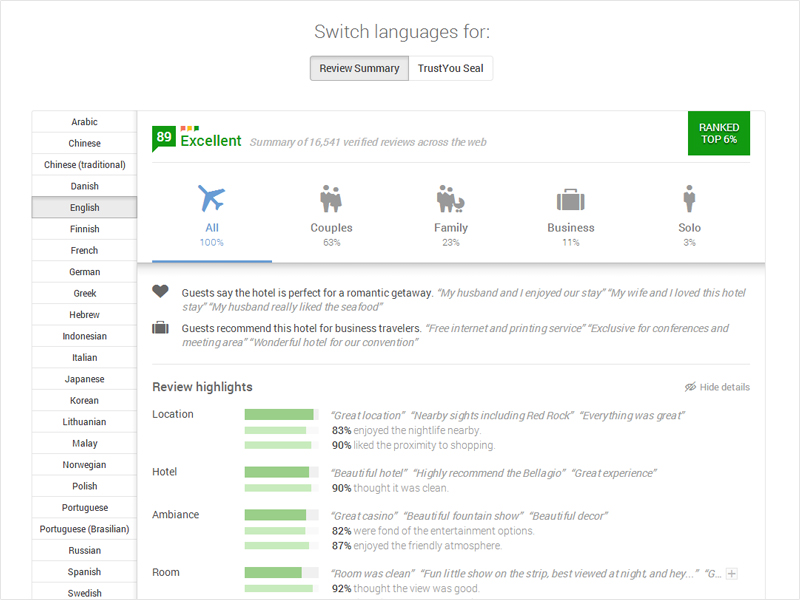
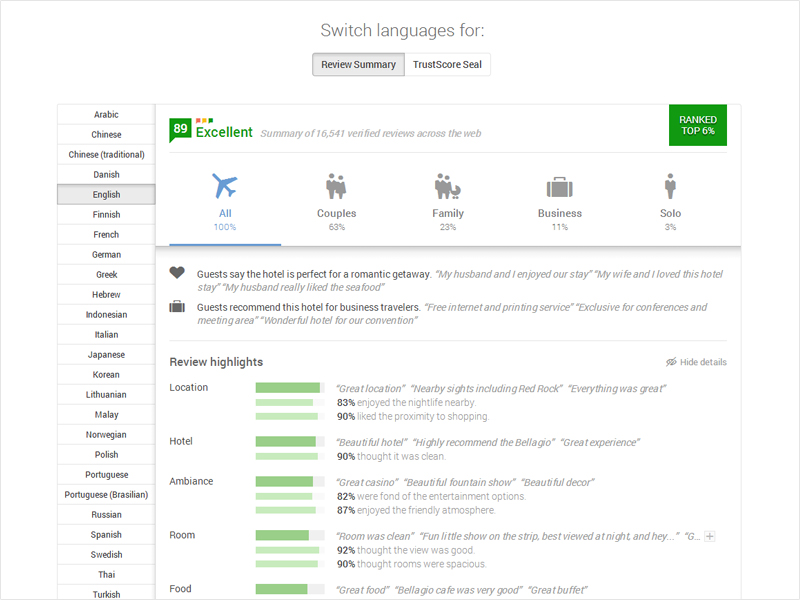
Corrected typos
Corrected some typos and updated the image.

diff --git a/index.html b/index.html
@@ -75,7 +75,7 @@
     <div class="cta">
       <div class="btn-group">
         <button type="button" id="RevSumTab" class="btn btn-default active"><span id="RevSumLink">Review Summary</span></button>
-        <button type="button" id="SealTab" class="btn btn-default"><span id="SealLink">TrustYou Seal</span></button>
+        <button type="button" id="SealTab" class="btn btn-default"><span id="SealLink">TrustScore Seal</span></button>
       </div>
     </div>
 
